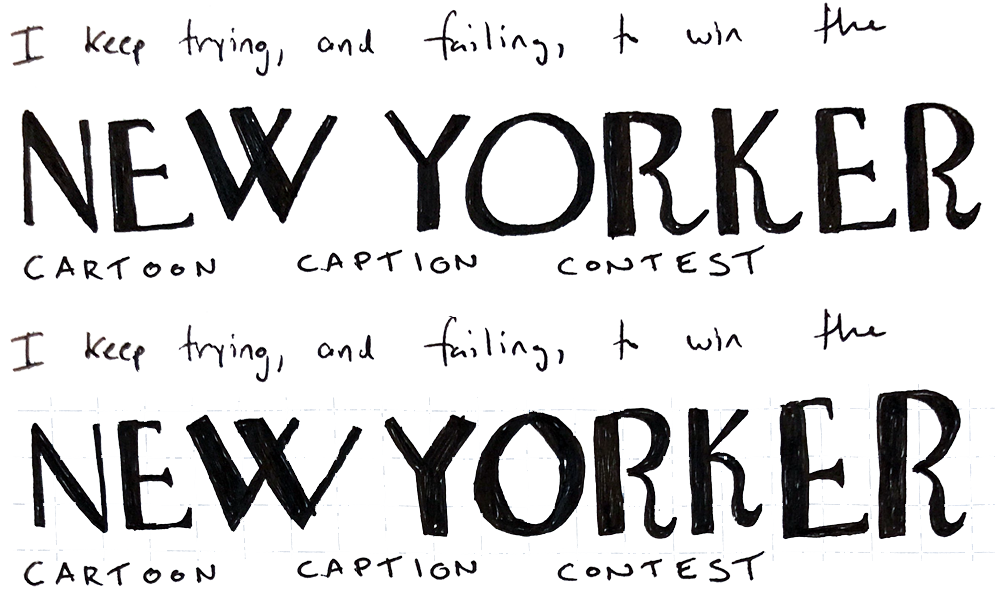
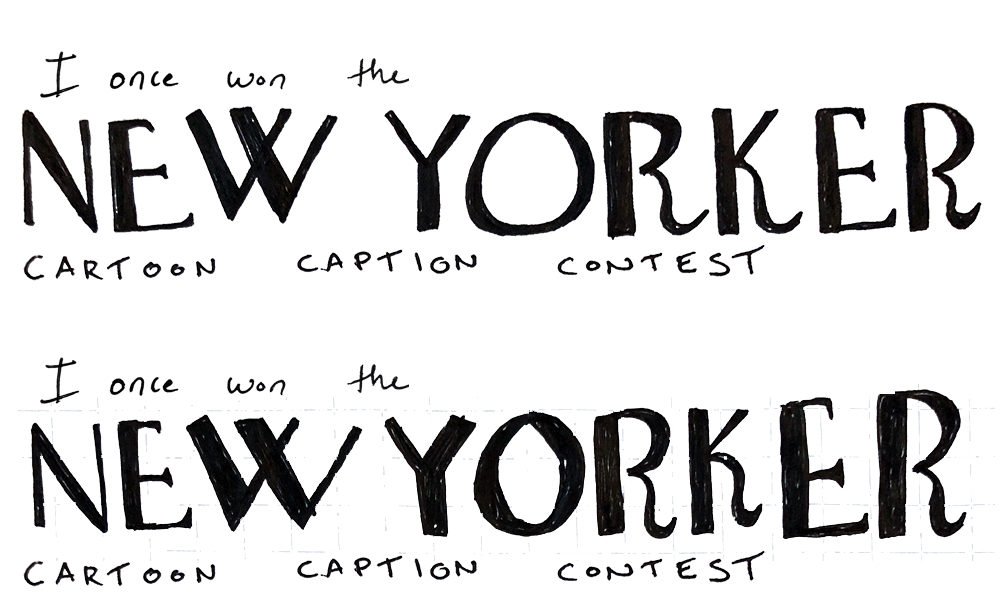
add New Yorker

diff --git a/newyorker/index.html b/newyorker/index.html
@@ -1,0 +1,36 @@
+<!DOCTYPE html>
+<html lang="en">
+	<head>
+		<meta charset="utf-8">
+		<meta name="viewport" content="initial-scale=1.0">
+	 
+		<title>I Once Won the New Yorker Cartoon Caption Contest :: &#2985;&#8896;&#1217;  &#1697;&#1488;&#2585;&#4285;&#3180;&#5819;&#2675;&#1002;&#3738;&#3433;</title>
+	 
+		<link rel="stylesheet" href="../style.css">
+	 
+		<link rel="icon" href="../img/favicon.ico" type="image/x-icon"/>  
+		
+		<script type="text/javascript" src="//use.typekit.net/ikb8taq.js"></script>
+		<script type="text/javascript">try{Typekit.load();}catch(e){}</script>
+
+	</head>
+
+	<body>
+		<div class="corner-colors"><a href="../"></a></div>
+		<div class="corner-colors-2"></div>
+		
+		<div class="page-container">
+			<h1>I Once Won the <em>New Yorker</em> Cartoon Caption Contest</h1>
+			
+			<p>After entering the <em>New Yorker</em> cartoon caption contest on and off for eight years, I finally won in the February 11, 2019, issue:</p>
+			
+			<img src="caption.jpg" class="new-yorker-caption">
+			
+			<img src="../img/cool-hr.png" class="page-container--cool-hr">
+			
+			<p class="tiny"><a href="../">&larr; back home</a></p>
+
+		</div><!--page-container-->
+  
+  </body>
+</html>

diff --git a/index.html b/index.html
@@ -50,7 +50,7 @@
 			</div><!--essay-talk-box-->
 
     	  <div class="new-yorker">
-    	  	<a href="http://instagram.com/thatsnotfunnymax" class="full-image-link">I keep trying, and failing, to win the New Yorker Cartoon Caption Contest.</a>
+    	  	<a href="newyorker/" class="full-image-link">I keep trying, and failing, to win the New Yorker Cartoon Caption Contest.</a>
     	  </div><!--brand-and-design-work-->
 
   			<img src="img/cool-hr.png" class="home-block--cool-hr-2">

diff --git a/style.css b/style.css
@@ -320,6 +320,13 @@ p a:hover {
 	border-color: #c77195;
 	opacity: 0.9;
 	}
+	
+.new-yorker-caption {
+	display: block;
+	margin: 0 auto;
+	width: 500px;
+	border: 1px solid black;
+}
 
 
 /* Responsive */
